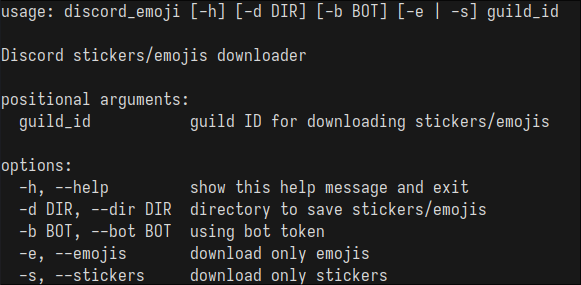
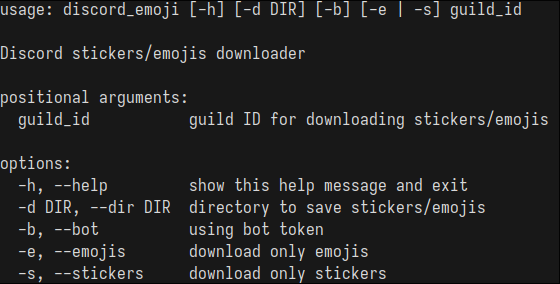
[fix] update argument parser to use 'store_true' for '--bot' flag

diff --git a/discord_emoji/__main__.py b/discord_emoji/__main__.py
@@ -45,7 +45,7 @@ def parse_args() -> Tuple[argparse.ArgumentParser, argparse.Namespace]:
     parser.add_argument(
         '-b', '--bot',
         help='using bot token',
-        type=bool
+        action='store_true',
     )
 
     group = parser.add_mutually_exclusive_group()
@@ -100,8 +100,6 @@ async def download_discord_image(image_filename: str, image_url: str):
 async def main(args: List[str]) -> int:
     args = args[1:]
     parser, args = parse_args()
-    print(args)
-    exit()
 
     discord: DiscordAPI = DiscordAPI(TOKEN, bot=args.bot)
 
